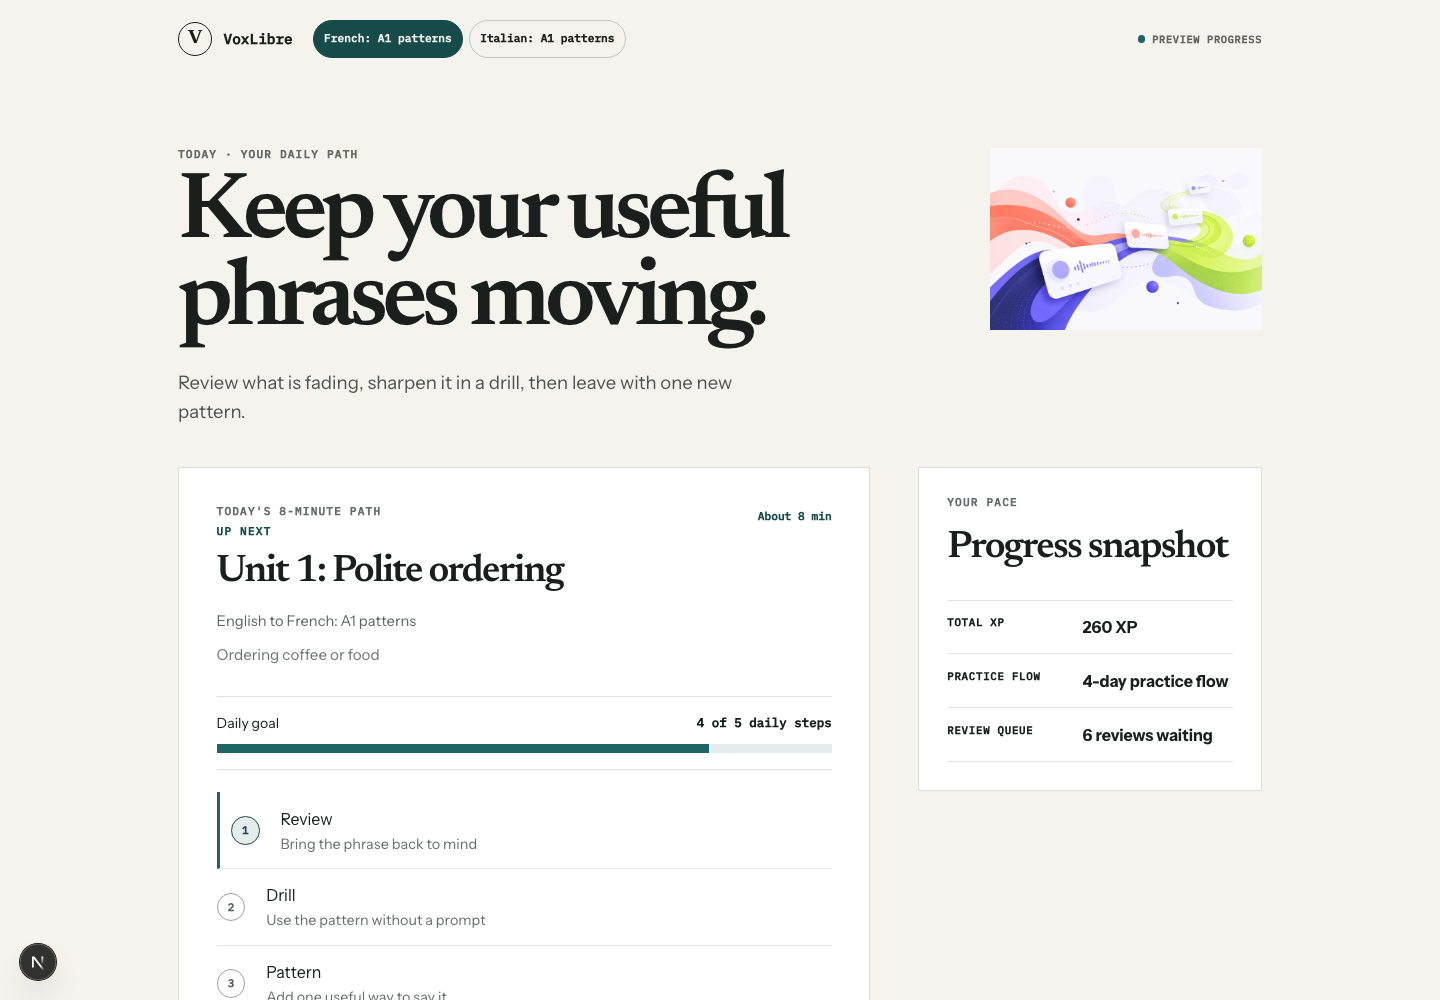
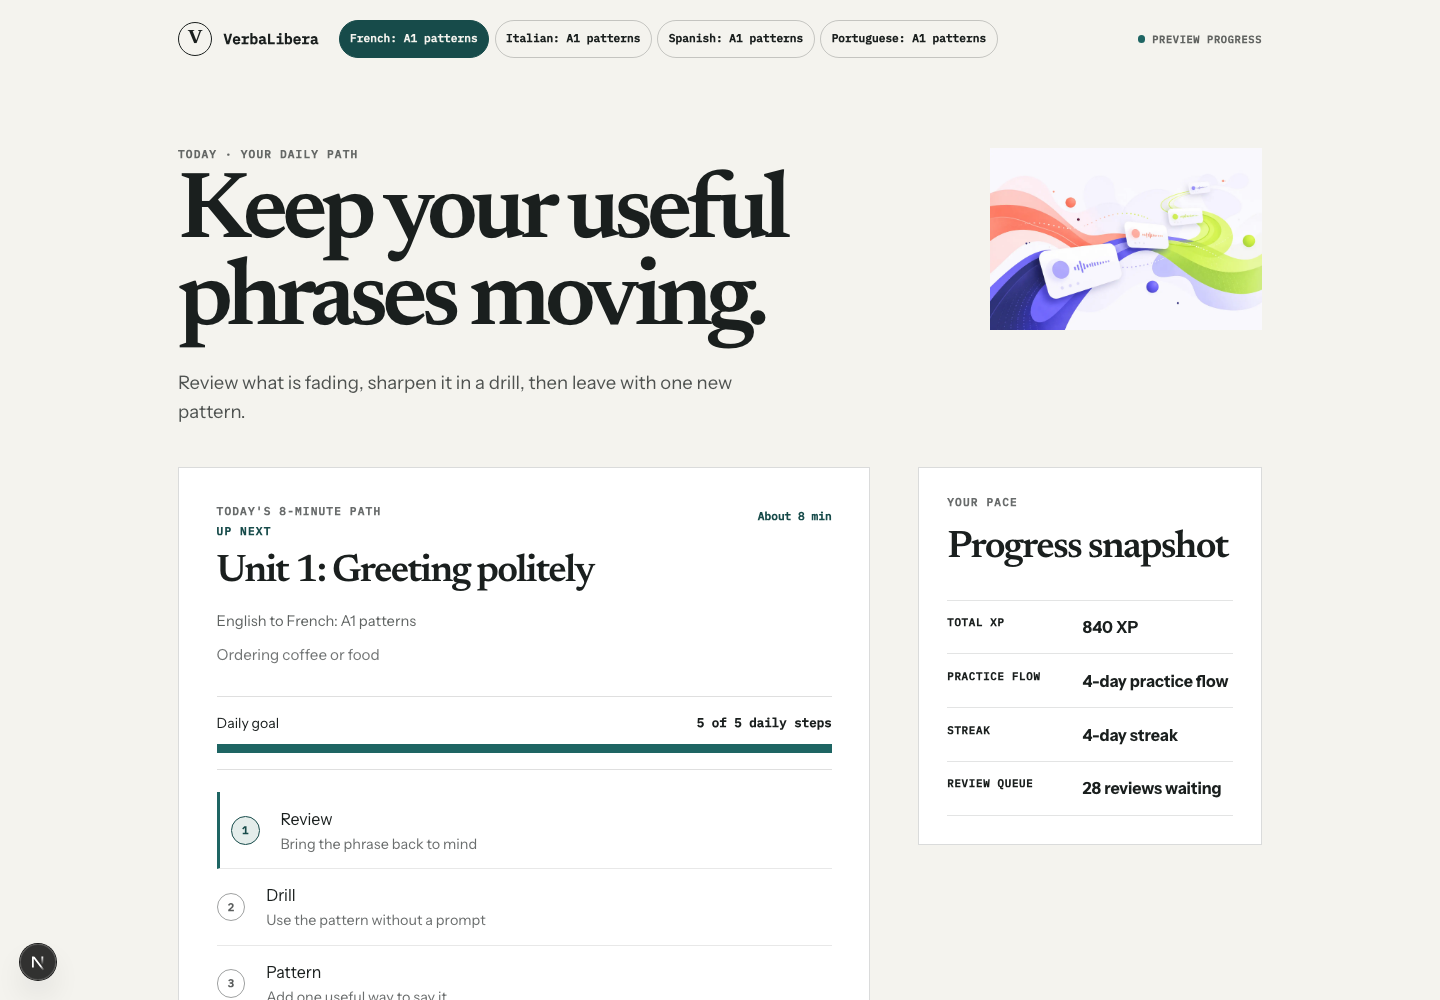
docs: refresh screenshots + README for VerbaLibera rebrand
- Retake 4 Quiet Ink screenshots (dashboard/session, desktop/mobile)
  with VerbaLibera wordmark via Playwright Chromium
- Remove 4 unreferenced legacy Signal Pop screenshots
- README: 4 courses x 8 patterns, 64 WAVs, picture drills; drop
  stale 2-course / 2-clip pilot copy
- asset-provenance: note retake + legacy removal

diff --git a/docs/asset-provenance.md b/docs/asset-provenance.md
@@ -8,7 +8,7 @@ All assets in this document are original VerbaLibera project assets. They were g
 - **Tool:** Playwright Chromium against the locally running app (`next dev`, port 3100)
 - **Files:** `docs/screenshots/quiet-ink-dashboard-desktop.png`, `docs/screenshots/quiet-ink-dashboard-mobile.png`, `docs/screenshots/quiet-ink-session-desktop.png`, `docs/screenshots/quiet-ink-session-mobile.png`
 - **Intended use:** README gallery and verification evidence for the Quiet Ink redesign.
-- **Status:** live captures of the app itself; no third-party source material. The earlier `dashboard-*.png` / `session-*.png` captures show the previous interface and are retained as historical evidence referenced by the superpowers plans.
+- **Status:** live captures of the app itself; no third-party source material. Retaken 2026-09-03 after the VoxLibre → VerbaLibera rebrand. The earlier `dashboard-*.png` / `session-*.png` captures (previous interface) were removed — nothing referenced them.
 
 ## Asset status under Quiet Ink
 
